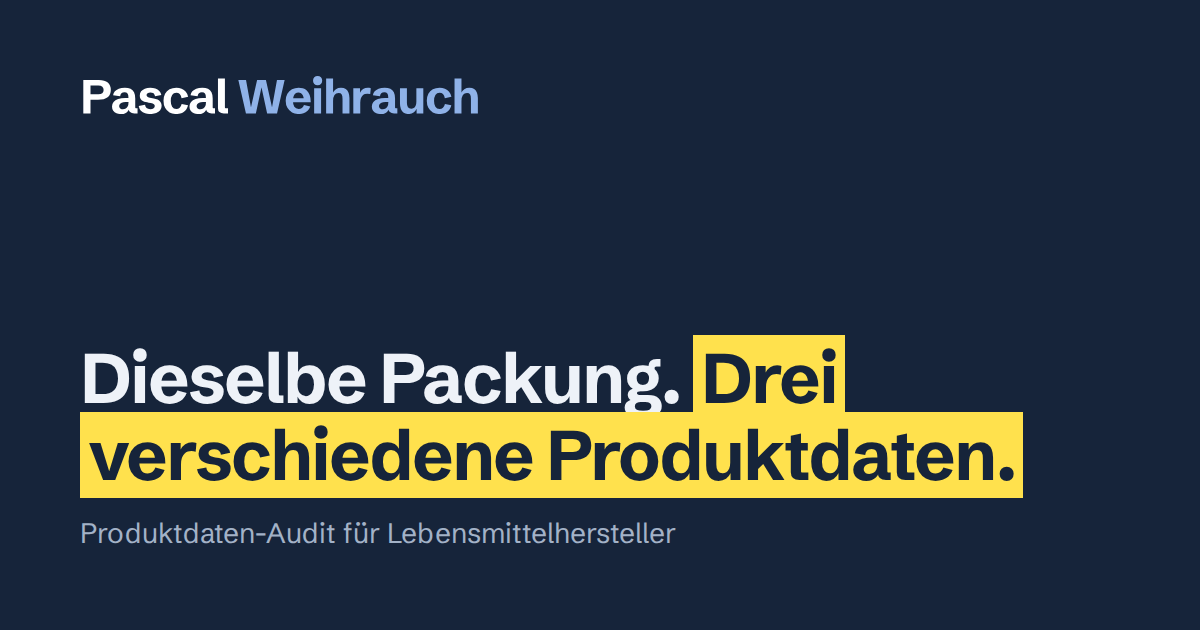
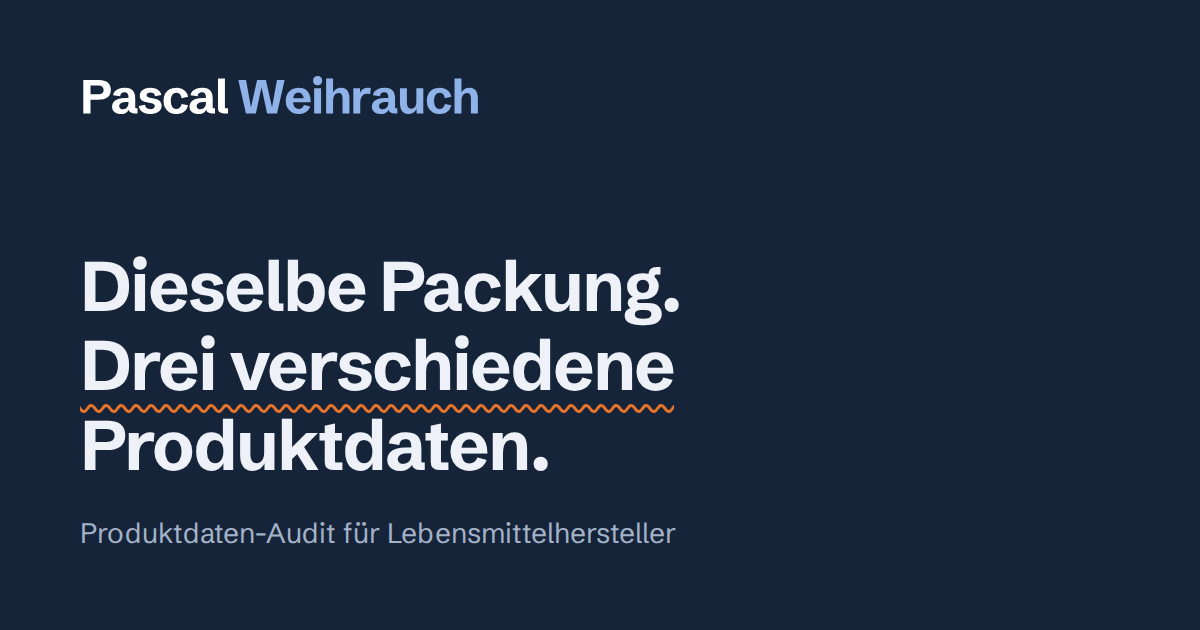
Website v2.4: Orange statt Gelb, Korrekturzeichen-Stil

Changed region(s): [[0.0617, 0.3921, 0.8633, 0.8143]]

diff --git a/styles.css b/styles.css
@@ -1,6 +1,6 @@
 /* pascalweihrauch.de – Version 2
    Ruhige Boutique-Seite: 1160px-Raster, ein dunkles Band für die Belege,
-   Gelb nur als Textmarker für Abweichungen (wie in den Briefen). */
+   Orange nur als Korrekturzeichen für Abweichungen (Wellenlinie, Linien), nie als Fläche. */
 
 @font-face{font-family:"Schibsted Grotesk";src:url("fonts/schibsted-grotesk-latin-400-normal.woff2") format("woff2");font-weight:400;font-display:swap}
 @font-face{font-family:"Schibsted Grotesk";src:url("fonts/schibsted-grotesk-latin-500-normal.woff2") format("woff2");font-weight:500;font-display:swap}
@@ -19,6 +19,8 @@
   --band-ink:#EEF2F8;
   --band-muted:#A3B2C7;
   --crit:#B3261E; --warn:#9A5600; --ok:#1F7A55;
+  --accent:#E8742A;     /* Linien, Wellenlinien (Nicht-Text, ≥3:1) */
+  --accent-ink:#C2410C; /* orange Schrift auf hellem Grund (5,2:1) */
   --font:"Schibsted Grotesk",-apple-system,"Segoe UI",Helvetica,Arial,sans-serif;
   --mono:ui-monospace,SFMono-Regular,Menlo,Consolas,monospace;
   color-scheme:light;
@@ -29,7 +31,7 @@
   :root{
     --ink:#E8EDF5; --paper:#0F1826; --mist:#152134; --line:#26354C; --muted:#A3B1C6;
     --marker:#E9C74C; --card:#152134; --band:#0A111C; --band-ink:#EEF2F8; --band-muted:#8FA2BD;
-    --crit:#F08A80; --warn:#E8A650; --ok:#5CC79A;
+    --crit:#F08A80; --warn:#E8A650; --ok:#5CC79A; --accent:#E8742A; --accent-ink:#F0A06A;
     color-scheme:dark;
   }
 }
@@ -40,9 +42,9 @@ body{margin:0;background:var(--paper);color:var(--ink);font-family:var(--font);f
 body::before{content:"";position:fixed;inset:0 0 auto;height:env(safe-area-inset-top,0px);z-index:10;background:var(--paper)}
 img{max-width:100%;height:auto;display:block}
 a{color:inherit}
-:focus-visible{outline:3px solid var(--ink);outline-offset:3px;box-shadow:0 0 0 6px var(--marker)}
+:focus-visible{outline:3px solid var(--brand,#24508F);outline-offset:3px}
 .skip{position:absolute;left:-999px}
-.skip:focus{left:16px;top:16px;background:var(--marker);color:var(--marker-ink);padding:8px 12px;z-index:20}
+.skip:focus{left:16px;top:16px;background:var(--ink);color:var(--paper);padding:8px 12px;z-index:20}
 
 .wrap{max-width:1160px;margin:0 auto;padding-left:max(24px,env(safe-area-inset-left,0px));padding-right:max(24px,env(safe-area-inset-right,0px))}
 h1,h2,h3{font-weight:700;line-height:1.12;letter-spacing:-.015em;margin:0;text-wrap:balance}
@@ -50,7 +52,7 @@ h1{font-size:clamp(2.6rem,5.6vw,4.4rem);letter-spacing:-.035em;line-height:1.02}
 h2{font-size:clamp(1.8rem,3.4vw,2.6rem);letter-spacing:-.02em}
 h3{font-size:1.25rem}
 p{margin:0}
-mark{background:var(--marker);color:var(--marker-ink);padding:0 .15em;border-radius:2px}
+mark{background:none;color:inherit;text-decoration:underline wavy var(--accent);text-decoration-thickness:1.5px;text-underline-offset:.22em;text-decoration-skip-ink:none}
 .kicker,.label{font-size:.78rem;font-weight:500;letter-spacing:.12em;text-transform:uppercase;color:var(--muted)}
 .lead{font-size:1.15rem;color:var(--muted);max-width:60ch}
 section{padding-block:clamp(64px,9vw,112px)}
@@ -100,12 +102,12 @@ section{padding-block:clamp(64px,9vw,112px)}
 .ex-body .row:last-child{border-bottom:0}
 .ex-body dt{color:var(--muted);font-size:.85rem}
 .ex-body dd{margin:0;min-width:0}
-.ex-body .val{padding:0 .15em;border-radius:2px;background:linear-gradient(var(--marker),var(--marker)) no-repeat 0 0/0% 100%;transition:background-size .5s ease}
-.ex-body .row.diff .val{background-size:100% 100%;color:var(--marker-ink)}
-.ex-body .note{display:block;margin-top:6px;padding-left:10px;border-left:3px solid var(--marker);font-size:.8rem;color:var(--muted);opacity:0;transition:opacity .4s ease .3s}
+.ex-body .val{text-decoration:underline wavy transparent;text-decoration-thickness:1.5px;text-underline-offset:.24em;text-decoration-skip-ink:none;transition:text-decoration-color .5s ease}
+.ex-body .row.diff .val{text-decoration-color:var(--accent)}
+.ex-body .note{display:block;margin-top:6px;padding-left:10px;border-left:2px solid var(--accent);font-size:.8rem;color:var(--muted);opacity:0;transition:opacity .4s ease .3s}
 .ex-body .row.diff .note{opacity:1}
 .ex-count{margin:0;background:var(--band);color:var(--band-ink);padding:13px 22px;font-size:.9rem}
-.ex-count span{color:var(--marker);font-weight:700}
+.ex-count span{color:var(--accent);font-weight:700}
 @media (max-width:480px){.ex-body .row{grid-template-columns:1fr;gap:2px}}
 
 /* Ergebnis */
@@ -133,7 +135,7 @@ section{padding-block:clamp(64px,9vw,112px)}
 .where{font-size:.95rem}
 .cause{font-size:.88rem;color:var(--muted)}
 .chip{justify-self:start;align-self:start;font-size:.75rem;font-weight:500;padding:4px 9px;border-radius:999px;border:1.5px solid currentColor;white-space:nowrap}
-.chip.crit{color:var(--crit)}.chip.warn{color:var(--warn)}.chip.ok{color:var(--ok)}
+.chip.crit{color:var(--accent-ink)}.chip.warn{color:var(--brand,#24508F)}.chip.ok{color:var(--muted)}
 @media (max-width:640px){.finding{grid-template-columns:1fr;gap:10px}}
 .case-close{display:grid;grid-template-columns:1fr auto;gap:24px;align-items:center;margin-top:32px}
 .case-close p{color:var(--muted);max-width:62ch}
@@ -143,10 +145,10 @@ section{padding-block:clamp(64px,9vw,112px)}
 .proof{background:var(--band);color:var(--band-ink)}
 .proof .kicker,.proof .lead{color:var(--band-muted)}
 .stats{display:grid;grid-template-columns:repeat(3,1fr);gap:40px;margin:8px 0 40px}
-.stat{display:grid;gap:10px;align-content:start;padding-top:22px;border-top:1px solid color-mix(in srgb,var(--band-ink) 25%,transparent)}
-.stat b{font-size:clamp(2.2rem,4.4vw,3.4rem);font-weight:700;letter-spacing:-.03em;line-height:1;color:var(--marker)}
+.stat{display:grid;gap:10px;align-content:start;padding-top:22px;border-top:2px solid var(--accent)}
+.stat b{font-size:clamp(2.2rem,4.4vw,3.4rem);font-weight:700;letter-spacing:-.03em;line-height:1;color:var(--band-ink)}
 .stat span{color:var(--band-muted)}
-.method{font-size:.88rem;color:var(--band-muted);max-width:70ch;border-left:3px solid var(--marker);padding-left:14px}
+.method{font-size:.88rem;color:var(--band-muted);max-width:70ch;border-left:2px solid var(--accent);padding-left:14px}
 .groups{display:grid;grid-template-columns:repeat(4,1fr);gap:28px;margin-top:56px}
 .groups h3{font-size:1rem;margin-bottom:6px}
 .groups p{font-size:.88rem;color:var(--band-muted)}
@@ -222,7 +224,7 @@ section{padding-block:clamp(64px,9vw,112px)}
 .legal h2{font-size:1.25rem;margin:32px 0 8px}
 .legal h3{font-size:1.05rem;margin:20px 0 6px}
 .legal p{margin:0 0 1em}
-.legal .ph{background:var(--marker);color:var(--marker-ink)}
+.legal .ph{color:var(--accent-ink)}
 .legal-table{border-collapse:collapse;width:100%;font-size:.95rem;margin-top:8px}
 .legal-table th,.legal-table td{text-align:left;vertical-align:top;padding:10px 12px;border-bottom:1px solid var(--line)}
 .legal-table th{background:var(--mist)}
@@ -238,13 +240,13 @@ section{padding-block:clamp(64px,9vw,112px)}
 .crumbs a{color:var(--muted)}
 .article h1{font-size:clamp(2rem,4vw,2.8rem);line-height:1.12;letter-spacing:-.02em;max-width:24ch;margin:0 0 20px}
 .article h2{font-size:1.4rem;line-height:1.2;margin:40px 0 12px}
-.answer{font-size:1.12rem;line-height:1.6;padding:18px 20px;border-left:4px solid var(--marker);background:var(--mist)}
+.answer{font-size:1.12rem;line-height:1.6;padding:18px 20px;border-left:3px solid var(--accent);background:var(--mist)}
 .key{padding:12px 16px;border:1px solid var(--line);background:var(--card)}
 .table-wrap{overflow-x:auto;margin:16px 0}
 .fall{border-collapse:collapse;width:100%;font-size:.95rem;min-width:560px}
 .fall th,.fall td{text-align:left;vertical-align:top;padding:10px 12px;border-bottom:1px solid var(--line)}
 .fall th{background:var(--band);color:var(--band-ink);font-weight:500}
-.fall tr.bad td:last-child{background:var(--marker);color:var(--marker-ink);font-weight:500}
+.fall tr.bad td:last-child{color:var(--accent-ink);font-weight:500}
 .ex-note{font-size:.88rem;color:var(--muted);margin-top:8px}
 .steps-check,.who{padding-left:1.3em}
 .steps-check li,.who li{margin-bottom:8px}
@@ -258,7 +260,7 @@ section{padding-block:clamp(64px,9vw,112px)}
 .article-cta h2{margin-top:0;color:var(--band-ink)}
 .article-cta p{color:var(--band-muted)}
 .article-cta .textlink{color:var(--band-ink);margin-left:16px}
-.btn-light{background:var(--marker);color:var(--marker-ink);border-color:var(--marker)}
+.btn-light{background:var(--band-ink);color:var(--band);border-color:var(--band-ink)}
 .btn-light:hover{background:transparent;color:var(--band-ink);border-color:var(--band-ink)}
 .calc{margin-top:32px;padding:20px;border:2px solid var(--ink);background:var(--card)}
 .calc h2{margin-top:0}
@@ -267,7 +269,7 @@ section{padding-block:clamp(64px,9vw,112px)}
 .calc label{display:flex;flex-direction:column;font-size:.9rem;color:var(--muted);gap:4px}
 .calc input{font:inherit;font-size:1.1rem;padding:8px 10px;border:1px solid var(--line);width:9em;color:var(--ink);background:var(--paper)}
 .calc-out{margin:14px 0 0;font-weight:500}
-.calc-out.warn{background:var(--marker);color:var(--marker-ink);display:inline-block;padding:2px 6px}
+.calc-out.warn{color:var(--accent-ink);border-left:2px solid var(--accent);padding-left:10px}
 .calc-note{font-size:.85rem;color:var(--muted);margin:14px 0 0}
 .hub-list{list-style:none;padding:0;margin:32px 0 0}
 .hub-list li{border-top:1.5px solid var(--ink)}

diff --git a/exhibit.js b/exhibit.js
@@ -21,7 +21,7 @@
       ["1.631 kJ / 289 kcal", "Rechnet nicht auf: 1.631 kJ sind rund 390 kcal."],
       ["Vollkorn-Haferflocken 68 %, Apfelstücke 24 %, Apfelpulver 7 %, Zimt 1 %"],
       ["Musterfood", "Nur der Markenname, keine Anschrift."],
-      ["–", "Grundpreis fehlt."]
+      ["keine Angabe", "Grundpreis fehlt."]
     ]
   };
 
